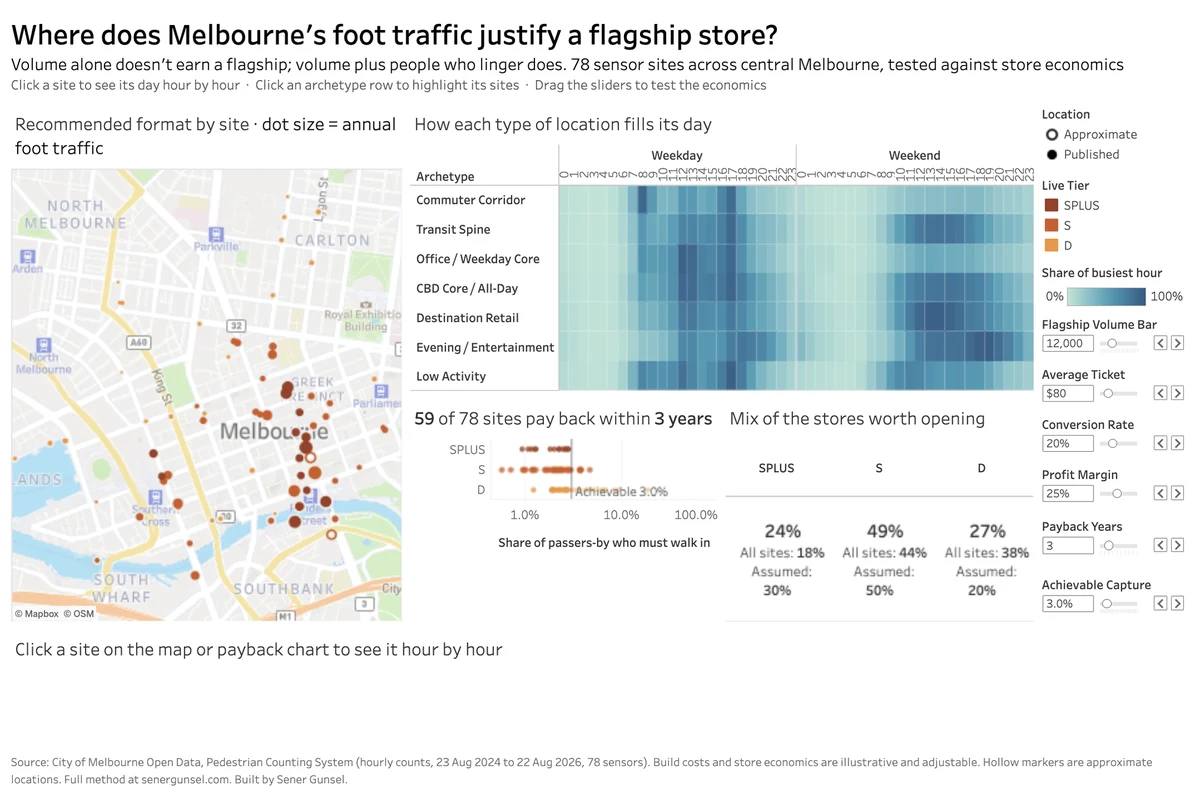
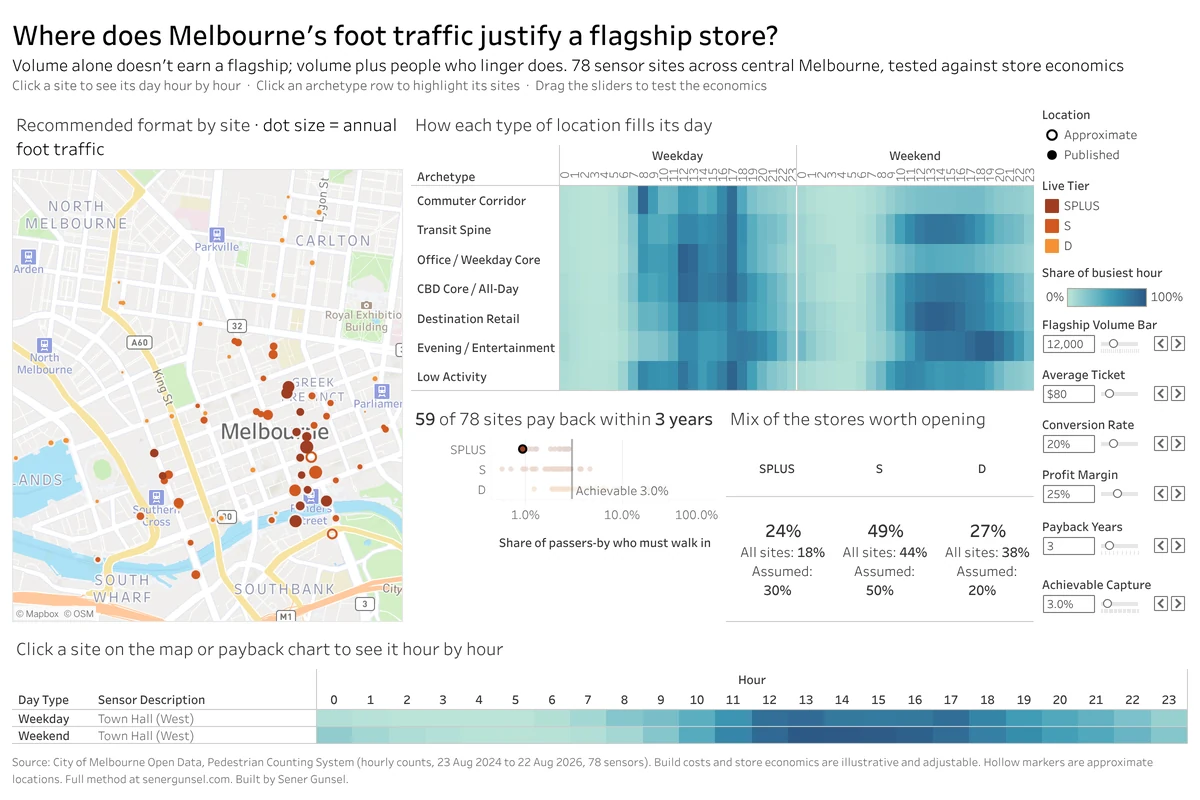
G06: open on the pre-clicked view and keep the picture clear
- New picture of the dashboard, captured from the live embed at 2x
  (2400 x 1600): exactly how it opens, with Town Hall (West) selected and its
  day hour by hour, so the swap to the live version is seamless.
- The load button and the cookie note move to the frame's header, so nothing
  covers the dashboard. The whole picture is a way in too, with a hover hint.
  The header keeps its height when the button goes, so nothing shifts.
- Social card re-rendered with the new picture.

Claude-Session: https://claude.ai/code/session_01794ufFi7x2EQagwsgN4iv2

diff --git a/public/assets/css/pages.css b/public/assets/css/pages.css
@@ -139,47 +139,46 @@
 
 /* ---------- G06 · Which streets earn a flagship? (the dashboard) ----------
    The Tableau dashboard is 1200 x 800. It loads only when asked: until then the
-   stage shows a picture of it. viz.js sets data-mode (inline on wide screens,
-   tab on narrow ones, where the link opens Tableau Public) and data-state. */
+   stage shows a picture of it exactly as it opens, so the swap is seamless.
+   viz.js sets data-mode (inline on wide screens, where it loads in place; tab on
+   narrow ones, where the links open Tableau Public) and data-state (loading, live). */
 .page-body .viz-wrap { padding-bottom: 0; }
 .viz { margin: 0; display: flex; flex-direction: column; background: var(--surface); outline: 3px solid var(--line); scroll-margin-top: 24px; }
-.viz-head { display: flex; flex-wrap: wrap; align-items: center; justify-content: space-between; gap: 8px; padding: 12px 20px; border-bottom: 1px solid var(--line); }
+.viz-head { min-height: 46px; display: flex; flex-wrap: wrap; align-items: center; justify-content: space-between; gap: 8px 16px; padding: 10px 20px; border-bottom: 1px solid var(--line); }
+.viz-act { display: none; flex-wrap: wrap; align-items: center; justify-content: flex-end; gap: 8px 16px; margin-left: auto; }
+.viz-hint { font-size: 13px; line-height: 1.4; color: var(--ink2); }
+.viz-act .btn { min-height: 40px; padding: 0 16px; font-size: 14px; }
+.viz[data-mode="inline"] .viz-head { min-height: 61px; } /* tall enough for the button, so nothing shifts when it goes */
+.viz[data-mode="inline"]:not([data-state]) .viz-act { display: flex; }
+.viz[data-mode="inline"]:not([data-state]) .viz-tag { display: none; }
 /* The dashboard is drawn on white, so its stage stays white in both themes. */
 .viz-stage { position: relative; overflow: hidden; background: #FFFFFF; }
 .viz-poster { display: block; width: 100%; max-width: 1200px; height: auto; margin: 0 auto; }
-.viz-cover { padding: 16px 20px 18px; border-top: 1px solid var(--line); background: var(--surface); color: var(--ink); }
-.viz-card { display: flex; flex-direction: column; align-items: flex-start; gap: 12px; }
-.viz-load::after { content: ""; position: absolute; inset: 0; }
+/* The whole picture is a way in too: hover it and it says so. */
+.viz-poke { position: absolute; inset: 0; display: flex; align-items: center; justify-content: center; text-decoration: none; transition: background-color 0.2s ease; }
+.viz-poke span { padding: 11px 16px; background: var(--ink); color: var(--onink); box-shadow: 4px 4px 0 var(--accent); font-family: var(--mono); font-size: 12px; letter-spacing: 0.08em; text-transform: uppercase; opacity: 0; translate: 0 6px; transition: opacity 0.2s ease, translate 0.2s ease; }
+.viz[data-mode="inline"] .viz-poke:hover { background: color-mix(in srgb, var(--ground) 12%, transparent); }
+.viz[data-mode="inline"] .viz-poke:hover span { opacity: 1; translate: 0 0; }
+.viz[data-mode="tab"] .viz-poke span { display: none; }
+.viz[data-state] .viz-poke { display: none; }
+/* Narrow screens: the way in sits under the picture. */
+.viz-cover { display: flex; flex-direction: column; align-items: flex-start; gap: 12px; padding: 16px 20px 18px; border-top: 1px solid var(--line); }
+.viz[data-mode="inline"] .viz-cover { display: none; }
 .viz-note { margin: 0; max-width: 50ch; font-family: var(--mono); font-size: 11.5px; line-height: 1.55; letter-spacing: 0.03em; color: var(--ink2); }
-.viz-status { margin: 0; display: flex; align-items: center; gap: 10px; font-size: 15px; font-weight: 650; }
+/* Loading: a small card over the picture until Tableau answers. */
+.viz-status { position: absolute; left: 50%; top: 50%; translate: -50% -50%; max-width: calc(100% - 48px); margin: 0; padding: 14px 18px; display: flex; align-items: center; gap: 10px; border: 1.5px solid var(--line); background: var(--surface); color: var(--ink); box-shadow: 6px 6px 0 var(--line); font-size: 15px; font-weight: 650; }
 .viz-status:empty { display: none; }
 .viz[data-state="loading"] .viz-status::before { content: ""; width: 14px; height: 14px; flex: none; border-radius: 50%; border: 2px solid var(--hair); border-top-color: var(--accent); animation: vizspin 0.8s linear infinite; }
 @keyframes vizspin { to { transform: rotate(360deg); } }
-.viz-inline { display: none; }
-.viz[data-mode="inline"] .viz-inline { display: inline; }
-.viz[data-mode="inline"] .viz-tab { display: none; }
-.viz[data-mode="inline"] .viz-cover {
-  position: absolute; inset: 0;
-  display: flex; align-items: center; justify-content: center;
-  padding: 24px; border: 0;
-  background: color-mix(in srgb, var(--ground) var(--scrim), transparent);
-  transition: background-color 0.25s ease;
-}
-.viz { --scrim: 30%; --scrim-hover: 8%; }
-:root[data-theme="after"] .viz { --scrim: 16%; --scrim-hover: 5%; }
-.viz[data-mode="inline"] .viz-cover:hover { background: color-mix(in srgb, var(--ground) var(--scrim-hover), transparent); }
-.viz[data-mode="inline"] .viz-card { align-items: center; padding: 22px 26px 20px; border: 1.5px solid var(--line); background: var(--surface); text-align: center; box-shadow: 6px 6px 0 var(--line); }
-.viz[data-mode="inline"] .viz-note { max-width: 44ch; }
-.viz[data-state="loading"] .viz-load, .viz[data-state="loading"] .viz-note { display: none; }
 .viz-frame { position: absolute; left: 0; right: 0; top: 0; opacity: 0; pointer-events: none; transition: opacity 0.5s ease; }
 .viz-frame iframe { position: absolute; top: 0; left: 0; display: block; border: 0; background: #FFFFFF; transform-origin: 0 0; }
-.viz[data-state="live"] .viz-poster, .viz[data-state="live"] .viz-cover { display: none; }
+.viz[data-state="live"] .viz-poster, .viz[data-state="live"] .viz-status { display: none; }
 .viz[data-state="live"] .viz-frame { position: relative; opacity: 1; pointer-events: auto; }
 .viz-foot { display: flex; flex-wrap: wrap; align-items: center; justify-content: space-between; gap: 8px 16px; padding: 12px 20px; border-top: 1px solid var(--line); font-family: var(--mono); font-size: 11px; letter-spacing: 0.06em; text-transform: uppercase; color: var(--muted); }
 .viz-foot a { display: inline-flex; align-items: center; gap: 6px; font-weight: 600; color: var(--ink); }
 .viz-foot a:hover { color: var(--atext); }
 @media (prefers-reduced-motion: reduce) {
-  .viz-frame, .viz[data-mode="inline"] .viz-cover { transition: none; }
+  .viz-frame, .viz-poke, .viz-poke span { transition: none; }
   .viz[data-state="loading"] .viz-status::before { animation: none; border-color: var(--accent); }
 }
 

diff --git a/public/projects/melbourne-site-tiering/index.html b/public/projects/melbourne-site-tiering/index.html
@@ -60,23 +60,22 @@
     <div class="page-body">
       <div class="wrap viz-wrap">
         <figure class="viz" id="dashboard" data-viz data-mode="tab" data-viz-src="https://public.tableau.com/views/MelbourneSiteTiering/SiteTiering?:embed=y&amp;:showVizHome=no&amp;:tabs=no&amp;:toolbar=yes&amp;:display_count=no&amp;:device=desktop&amp;:language=en-US">
-          <div class="viz-head sign">
-            <span><span data-sign="drop">New drop</span> · Try it</span>
-            <span class="tag tag-accent">Playable</span>
+          <div class="viz-head">
+            <span class="sign"><span data-sign="drop">New drop</span> · Try it</span>
+            <span class="tag tag-accent viz-tag">Playable</span>
+            <span class="viz-act">
+              <span class="viz-hint" id="viz-hint">Tableau Public loads only when you click, and may set its own cookies.</span>
+              <a class="btn btn-ink viz-load" data-viz-load href="https://public.tableau.com/views/MelbourneSiteTiering/SiteTiering?:language=en-US&amp;:display_count=n&amp;:origin=viz_share_link" target="_blank" rel="noopener" aria-describedby="viz-hint">Load the live dashboard<svg aria-hidden="true" width="16" height="16" viewBox="0 0 16 16" fill="none" stroke="currentColor" stroke-width="1.6"><path d="M3 8h10M9 4l4 4-4 4"/></svg></a>
+            </span>
           </div>
           <div class="viz-stage" data-viz-stage>
-            <img class="viz-poster" src="/assets/img/melbourne-site-tiering-1200.webp" srcset="/assets/img/melbourne-site-tiering-1200.webp 1200w, /assets/img/melbourne-site-tiering-2160.webp 2160w" sizes="(max-width: 760px) calc(100vw - 32px), (max-width: 1280px) calc(100vw - 80px), 1200px" width="1200" height="800" alt="The dashboard: a map of 78 street locations in central Melbourne shaded by the store size each earns, a grid of how seven kinds of street fill their day hour by hour, a payback chart where 59 of 78 locations pay back within three years, and the resulting mix of stores worth opening: 24% flagship, 49% standard, 27% small.">
-            <div class="viz-cover">
-              <div class="viz-card">
-                <a class="btn btn-ink btn-lg viz-load" data-viz-load href="https://public.tableau.com/views/MelbourneSiteTiering/SiteTiering?:language=en-US&amp;:display_count=n&amp;:origin=viz_share_link" target="_blank" rel="noopener" aria-describedby="viz-note">
-                  <span class="viz-inline">Load the live dashboard</span>
-                  <span class="viz-tab">Open the dashboard<span class="visually-hidden"> on Tableau Public, in a new tab</span></span>
-                  <svg class="viz-tab" aria-hidden="true" width="16" height="16" viewBox="0 0 16 16" fill="none" stroke="currentColor" stroke-width="1.6"><path d="M5 11 11 5M6 5h5v5"/></svg>
-                </a>
-                <p class="viz-status" data-viz-status role="status" aria-live="polite"></p>
-                <p class="viz-note" id="viz-note"><span class="viz-inline">It runs on Tableau Public, which may set its own cookies. Nothing loads from Tableau until you click.</span><span class="viz-tab">It opens on Tableau Public, which may set its own cookies. On a phone you get the phone layout.</span></p>
-              </div>
-            </div>
+            <img class="viz-poster" src="/assets/img/melbourne-site-tiering-1200.webp" srcset="/assets/img/melbourne-site-tiering-1200.webp 1200w, /assets/img/melbourne-site-tiering-2400.webp 2400w" sizes="(max-width: 760px) calc(100vw - 32px), (max-width: 1280px) calc(100vw - 80px), 1200px" width="1200" height="800" alt="The dashboard as it opens: a map of 78 street locations in central Melbourne shaded by the store size each earns, a grid of how seven kinds of street fill their day hour by hour, a payback chart where 59 of 78 locations pay back within three years with Town Hall (West) selected, the mix of stores worth opening (24% flagship, 49% standard, 27% small), and Town Hall's day hour by hour, weekdays against weekends.">
+            <a class="viz-poke" data-viz-load href="https://public.tableau.com/views/MelbourneSiteTiering/SiteTiering?:language=en-US&amp;:display_count=n&amp;:origin=viz_share_link" target="_blank" rel="noopener" tabindex="-1" aria-hidden="true"><span>Click to load the live dashboard</span></a>
+            <p class="viz-status" data-viz-status role="status" aria-live="polite"></p>
+          </div>
+          <div class="viz-cover">
+            <a class="btn btn-ink btn-lg viz-load" data-viz-load href="https://public.tableau.com/views/MelbourneSiteTiering/SiteTiering?:language=en-US&amp;:display_count=n&amp;:origin=viz_share_link" target="_blank" rel="noopener" aria-describedby="viz-note">Open the dashboard<span class="visually-hidden"> on Tableau Public, in a new tab</span><svg aria-hidden="true" width="16" height="16" viewBox="0 0 16 16" fill="none" stroke="currentColor" stroke-width="1.6"><path d="M5 11 11 5M6 5h5v5"/></svg></a>
+            <p class="viz-note" id="viz-note">It opens on Tableau Public, which may set its own cookies. On a phone you get the phone layout.</p>
           </div>
           <figcaption class="viz-foot">
             <span>Hourly counts: City of Melbourne Open Data · Store economics: illustrative</span>

diff --git a/public/assets/js/viz.js b/public/assets/js/viz.js
@@ -1,9 +1,9 @@
 // G06 · Which streets earn a flagship?
 // The dashboard lives on Tableau Public. Until a visitor asks for it, the page
-// shows a picture of it and nothing talks to Tableau, so the store keeps its
-// no-cookies promise. Wide screens load it in place at its real size (scaled
-// down a touch on smaller laptops). Narrow screens follow the link to Tableau
-// Public in a new tab, where the phone layout takes over.
+// shows a picture of it exactly as it opens, and nothing talks to Tableau, so
+// the store keeps its no-cookies promise. Wide screens load it in place at its
+// real size (scaled down a touch on smaller laptops). Narrow screens follow the
+// link to Tableau Public in a new tab, where the phone layout takes over.
 
 const VIZ_W = 1200;
 const VIZ_H = 827; // the 1200 x 800 dashboard plus Tableau's 27px toolbar
@@ -13,8 +13,9 @@ function initViz() {
   const fig = document.querySelector('[data-viz]');
   if (!fig) return;
   const stage = fig.querySelector('[data-viz-stage]');
-  const link = fig.querySelector('[data-viz-load]');
+  const triggers = Array.from(fig.querySelectorAll('[data-viz-load]'));
   const status = fig.querySelector('[data-viz-status]');
+  const reduced = window.matchMedia('(prefers-reduced-motion: reduce)');
   let box = null;
   let slow = null;
 
@@ -38,14 +39,14 @@ function initViz() {
     clearTimeout(slow);
     fig.dataset.state = 'live';
     status.textContent = '';
-    const frame = box.firstElementChild;
-    try { frame.focus({ preventScroll: true }); } catch (e) { /* not focusable yet */ }
+    try { box.firstElementChild.focus({ preventScroll: true }); } catch (e) { /* not focusable yet */ }
   };
 
-  link.addEventListener('click', (e) => {
+  const load = (e) => {
     // Modified clicks, a second click, or a narrow screen: let the link do its job.
     if (box || !wide() || e.button !== 0 || e.metaKey || e.ctrlKey || e.shiftKey || e.altKey) return;
     e.preventDefault();
+    fit();
     fig.dataset.state = 'loading';
     status.textContent = 'Loading the dashboard from Tableau Public…';
 
@@ -63,11 +64,18 @@ function initViz() {
     stage.appendChild(box);
     fit();
 
+    // Bring the whole dashboard into view if the click came from its header.
+    const r = fig.getBoundingClientRect();
+    if (r.top < 0 || r.top > window.innerHeight * 0.25) {
+      fig.scrollIntoView({ block: 'start', behavior: reduced.matches ? 'auto' : 'smooth' });
+    }
+
     slow = setTimeout(() => {
       status.textContent = 'Tableau Public is taking a while. You can also open it in a new tab with the link below.';
     }, 15000);
-  });
+  };
 
+  triggers.forEach((t) => t.addEventListener('click', load));
   if ('ResizeObserver' in window) new ResizeObserver(fit).observe(stage);
   else window.addEventListener('resize', fit);
   fit();
